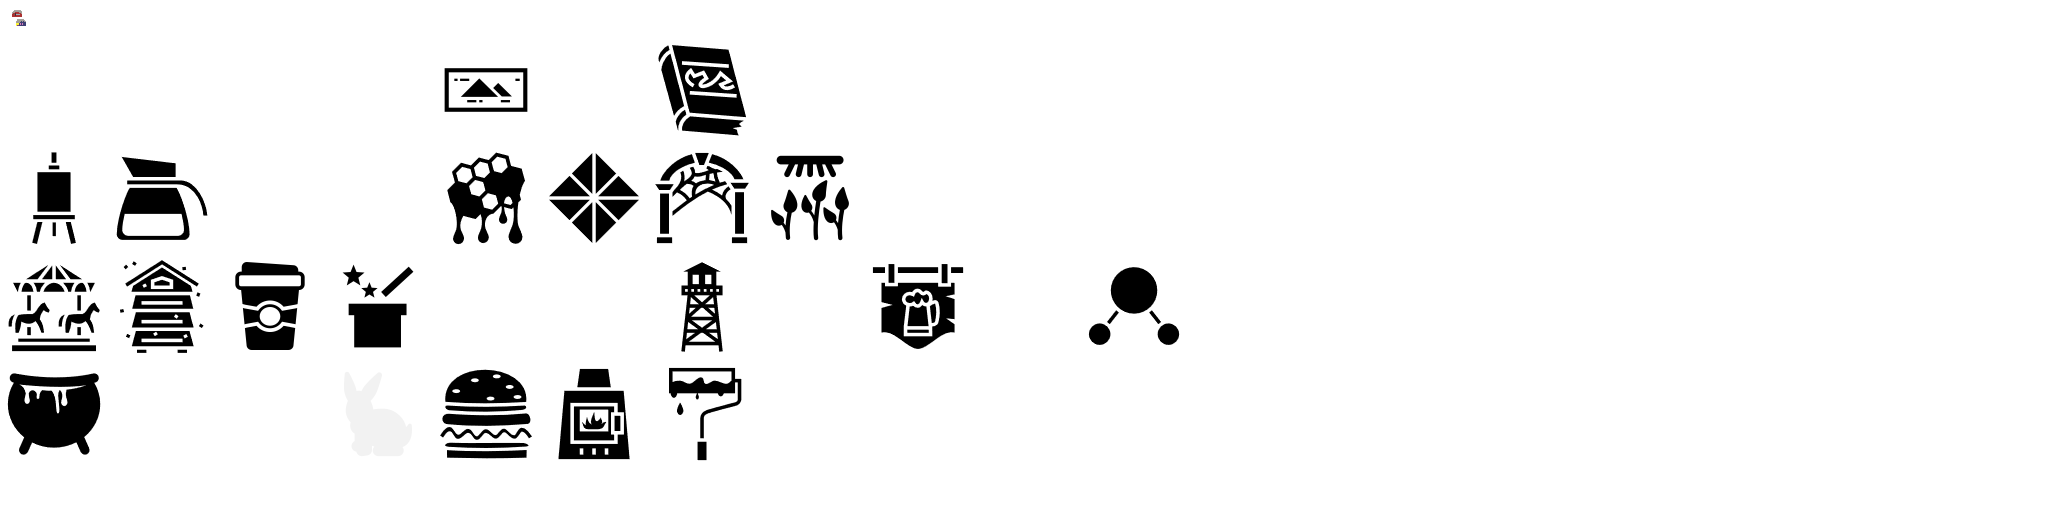
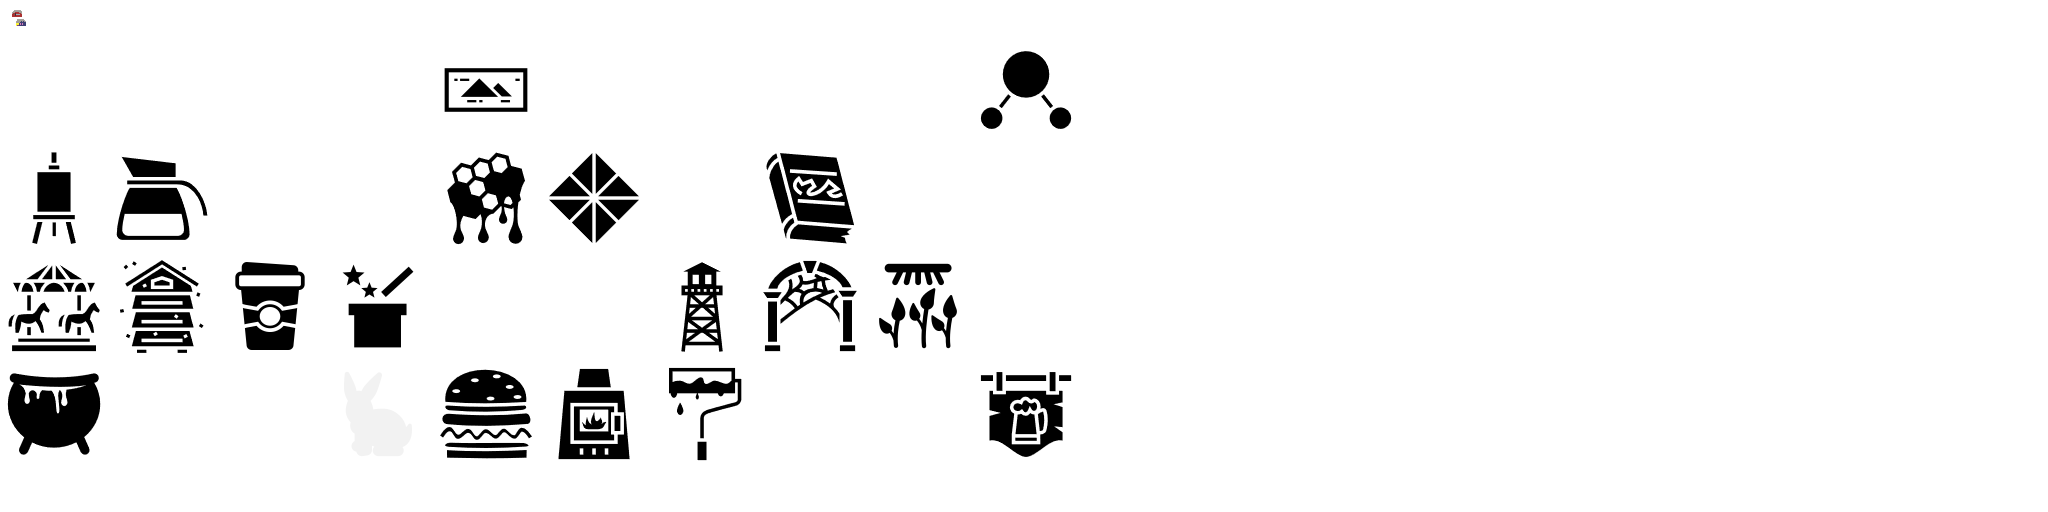
Added The Cottons, Catherine's empire

diff --git a/CREDITS.md b/CREDITS.md
@@ -19,6 +19,7 @@ Unless otherwise specified, all the following are from [Game-icons.net](https://
 - [Fizzing flask](https://game-icons.net/1x1/lorc/fizzing-flask.html) by Lorc for The Beakers, Chrome's empire
 - [Winged sword](https://game-icons.net/1x1/lorc/winged-sword.html) by Lorc for The Knights, Sid's empire
 - [Pencil](https://www.svgrepo.com/svg/7477/pencil) from Svgrepo (CC0) for The Rotors, Lester's empire
+- [Cotton flower](https://game-icons.net/1x1/delapouite/cotton-flower.html) by Delapouite for The Cottons, Catherine's empire.
 
 ### Unit icons
 
@@ -31,6 +32,7 @@ Unless otherwise specified, all the following are from [Game-icons.net](https://
 - RV Wayfinder is made by The Ghost Hugger
 - [Ghost](https://www.svgrepo.com/svg/192067/ghost) from Svgrepo (CC0) for Phantom
 - [Helicopter](https://www.svgrepo.com/svg/183210/helicopter) from Svgrepo (CC0) for Helicopter
+- [Pegasus](https://game-icons.net/1x1/skoll/pegasus.html) by Skoll for Pegasus
 
 ### Building icons
 
@@ -41,6 +43,7 @@ Unless otherwise specified, all the following are from [Game-icons.net](https://
 - [Beehive](https://game-icons.net/1x1/delapouite/beehive.html) by Delapouite for Beehive
 - [Book cover](https://game-icons.net/1x1/lorc/book-cover.html) by Lorc for Storyteller's Hut
 - [Watchtower](https://game-icons.net/1x1/delapouite/watchtower.html) by Delapouite for Overseer Station
+- [Indoor garden](https://www.svgrepo.com/svg/62492/indoor-garden) from Svgrepo (CC0) for Synthesized Garden
 
 ### Unit Promotion icons
 
@@ -59,7 +62,6 @@ Unless otherwise specified, all the following are from [Game-icons.net](https://
 
 ### Unused or abandoned icons
 
-- [Cotton flower](https://game-icons.net/1x1/delapouite/cotton-flower.html) by Delapouite for Whims
 - [Coffee pot](https://game-icons.net/1x1/delapouite/coffee-pot.html) by Delapouite for Cafe
 - [Hamburger](https://game-icons.net/1x1/delapouite/hamburger.html) by Delapouite for Fast Food Chains
 - [Divided square](https://game-icons.net/1x1/skoll/divided-square.html) by Skoll for Omni Station
@@ -72,4 +74,3 @@ Unless otherwise specified, all the following are from [Game-icons.net](https://
 - [Coffee](https://www.svgrepo.com/svg/70083/coffee) from Svgrepo (CC0) for Coffee Joint
 - [Rabbit](https://www.svgrepo.com/svg/113250/rabbit) from Svgrepo (CC0) for D'Latte
 - [Magician](https://www.svgrepo.com/svg/1512/magician) from Svgrepo (CC0) for Fancy House
-- [Indoor garden](https://www.svgrepo.com/svg/62492/indoor-garden) from Svgrepo (CC0) for Synthesized Garden
